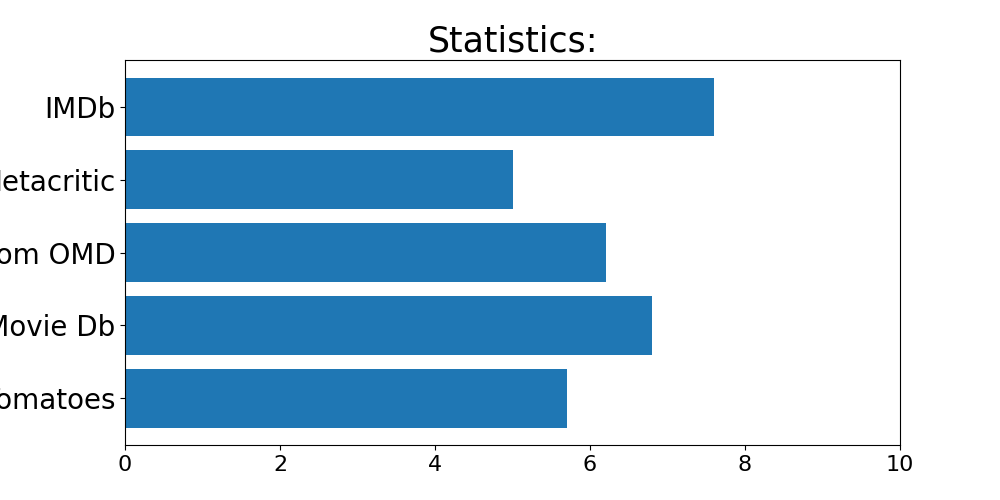
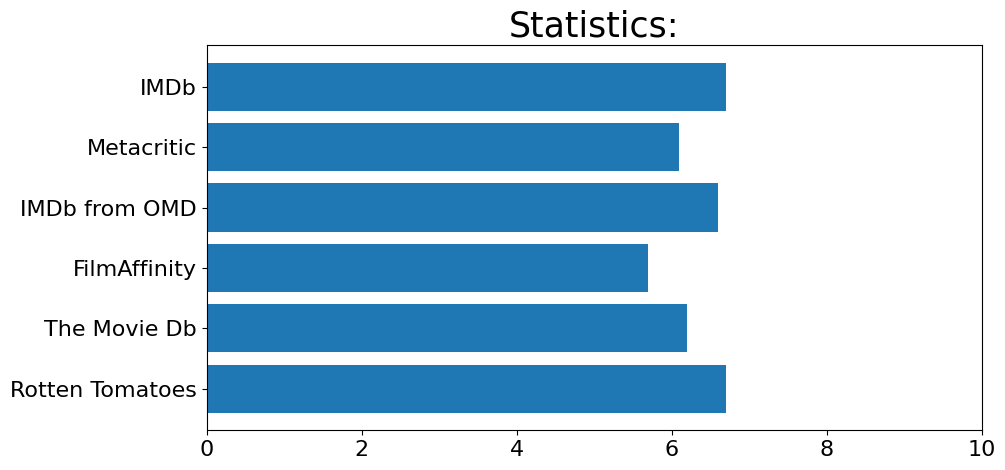
end version of rest

diff --git a/film_rating/postman/response_lotr.html b/film_rating/postman/response_lotr.html
@@ -1,0 +1,28 @@
+<!DOCTYPE html>
+<html lang="en">
+<head>
+    <meta charset="UTF-8">
+    <title>Rating</title>
+</head>
+<body>
+<nav>
+    <a href="/">BACK</a>
+</nav>
+<img src="https://m.media-amazon.com/images/M/MV5BNzA5ZDNlZWMtM2NhNS00NDJjLTk4NDItYTRmY2EwMWZlMTY3XkEyXkFqcGdeQXVyNzkwMjQ5NzM@._V1_SX300.jpg" alt="" style="float:right; margin:6px; width:250">
+<p>
+    Title: The Lord of the Rings: The Return of the King </br>
+    Average rating: 8.4 </br>
+    Weighted average rating: 8.9 </br>
+    Maximum rating: 9.4 </br>
+    Minimum rating: 6.2 </br></br>
+    Get ratings from 6 of 6 providers
+</p>
+<img src="/static/barplot.png" alt="" width="400">
+<p>
+    Triumph Tinged With Regret in Middle Earth After the galloping intelligence displayed in the first two parts of &amp;quot;The Lord of the Rings&amp;quot; series, your fear may be that Peter Jackson would become cautious and unimaginative with the last episode of his trilogy. But Mr. Jackson crushes any such fear. His &amp;quot;King&amp;quot; is a meticulous and prodigious vision made by a director who was not hamstrung by heavy use of computer special-effects imagery. The final installment  follows the hobbit Frodo (Elijah Wood), increasingly fevered as the ring exercises its power over him, on the last leg of his perilous journey to Mordor to destroy the sinister object.  The wizard Gandalf (Ian McKellen), in a voice sodden with mellow sadness, believes that Frodo is on a suicide mission: &amp;quot;There never was much hope. Just a false hope.&amp;quot; Mr. Jackson takes his time with the story, but he&#39;s not sloughing off here. Rather he is building toward a more than solid conclusion. The grandiloquence that sustained the second installment, &amp;quot;The Two Towers,&amp;quot; with its pounding and operatic martial fury — a movie that actually created a state of siege and left audiences hanging —  can be found here. By its end, &amp;quot;King&amp;quot; glides to the gentle bonhomie that opened the &amp;quot;Ring&amp;quot; movies, but its epilogue is tinged with regret: &amp;quot;You can&#39;t go back. Some wounds don&#39;t heal.&amp;quot; It&#39;s an epic about the price of triumph, a subversive victory itself in a large-scale pop-action film. — Elvis Mitchell
+    </br></br>
+    <a href="https://www.nytimes.com/2003/12/16/movies/film-review-triumph-tinged-with-regret-in-middle-earth.html">Full review</a>
+</p>
+
+</body>
+</html>

diff --git a/film_rating/postman/response_hulk.html b/film_rating/postman/response_hulk.html
@@ -1,0 +1,28 @@
+<!DOCTYPE html>
+<html lang="en">
+<head>
+    <meta charset="UTF-8">
+    <title>Rating</title>
+</head>
+<body>
+<nav>
+    <a href="/">BACK</a>
+</nav>
+<img src="https://m.media-amazon.com/images/M/MV5BMTUyNzk3MjA1OF5BMl5BanBnXkFtZTcwMTE1Njg2MQ@@._V1_SX300.jpg" alt="" style="float:right; margin:6px; width:250">
+<p>
+    Title: The Incredible Hulk </br>
+    Average rating: 6.3 </br>
+    Weighted average rating: 6.6 </br>
+    Maximum rating: 6.7 </br>
+    Minimum rating: 5.7 </br></br>
+    Get ratings from 6 of 6 providers
+</p>
+<img src="/static/barplot.png" alt="" width="400">
+<p>
+    Caution: Contents Turn Angry When Shaken The new movie about Dr. Bruce Banner is called “The Incredible Hulk.” But let’s not get carried away: “The Adequate Hulk” would have been a more suitable title.
+    </br></br>
+    <a href="https://www.nytimes.com/2008/06/13/movies/13hulk.html">Full review</a>
+</p>
+
+</body>
+</html>

diff --git a/film_rating/postman/response_avatar.html b/film_rating/postman/response_avatar.html
@@ -1,0 +1,28 @@
+<!DOCTYPE html>
+<html lang="en">
+<head>
+    <meta charset="UTF-8">
+    <title>Rating</title>
+</head>
+<body>
+<nav>
+    <a href="/">BACK</a>
+</nav>
+<img src="https://m.media-amazon.com/images/M/MV5BMTYwOTEwNjAzMl5BMl5BanBnXkFtZTcwODc5MTUwMw@@._V1_SX300.jpg" alt="" style="float:right; margin:6px; width:250">
+<p>
+    Title: Avatar </br>
+    Average rating: 8.0 </br>
+    Weighted average rating: 7.8 </br>
+    Maximum rating: 8.3 </br>
+    Minimum rating: 7.5 </br></br>
+    Get ratings from 4 of 6 providers
+</p>
+<img src="/static/barplot.png" alt="" width="400">
+<p>
+    A New Eden, Both Cosmic and Cinematic With “Avatar” James Cameron has turned one man’s dream of the movies into a trippy joy ride about the end of life as we know it.
+    </br></br>
+    <a href="https://www.nytimes.com/2009/12/18/movies/18avatar.html">Full review</a>
+</p>
+
+</body>
+</html>

diff --git a/film_rating/postman/response_shawshank.html b/film_rating/postman/response_shawshank.html
@@ -1,0 +1,28 @@
+<!DOCTYPE html>
+<html lang="en">
+<head>
+    <meta charset="UTF-8">
+    <title>Rating</title>
+</head>
+<body>
+<nav>
+    <a href="/">BACK</a>
+</nav>
+<img src="https://m.media-amazon.com/images/M/MV5BMDFkYTc0MGEtZmNhMC00ZDIzLWFmNTEtODM1ZmRlYWMwMWFmXkEyXkFqcGdeQXVyMTMxODk2OTU@._V1_SX300.jpg" alt="" style="float:right; margin:6px; width:250">
+<p>
+    Title: The Shawshank Redemption </br>
+    Average rating: 8.8 </br>
+    Weighted average rating: 9.3 </br>
+    Maximum rating: 9.3 </br>
+    Minimum rating: 8.1 </br></br>
+    Get ratings from 5 of 6 providers
+</p>
+<img src="/static/barplot.png" alt="" width="400">
+<p>
+    Prison Tale by Stephen King Told Gently, Believe It or Not 
+    </br></br>
+    <a href="https://www.nytimes.com/1994/09/23/movies/film-review-prison-tale-by-stephen-king-told-gently-believe-it-or-not.html">Full review</a>
+</p>
+
+</body>
+</html>

diff --git a/film_rating/logic.py b/film_rating/logic.py
@@ -1,13 +1,14 @@
-from rt import RTProvider
-from tmdb import TMDBProvider
-from nyt import NYTProvider
-from fa import FAProvider
-from imdb_omd import IMDBOMDProvider
-from mc import MCProvider
-from imdb import IMDBProvider
+from providers.rt import RTProvider
+from providers.tmdb import TMDBProvider
+from providers.nyt import NYTProvider
+from providers.fa import FAProvider
+from providers.imdb_omd import IMDBOMDProvider
+from providers.mc import MCProvider
+from providers.imdb import IMDBProvider
 
 from concurrent.futures import ThreadPoolExecutor
 import matplotlib.pyplot as plt
+from matplotlib.pyplot import Figure
 
 
 class Evaluator(object):
@@ -26,7 +27,7 @@ class Evaluator(object):
             for idx in range(len(self.providers)):
                 executor.submit(self.run_provider, idx)
 
-    def make_barplot(self): #todo szerokość wykresu
+    def make_barplot(self):
         labels = []
         values = []
         for i, b in enumerate(self.returns):
@@ -39,10 +40,10 @@ class Evaluator(object):
         plt.figure(figsize=(10, 5))
         plt.barh(labels, values)
         plt.xticks(fontsize=16)
-        plt.yticks(fontsize=20)
+        plt.yticks(fontsize=16)
         plt.xlim([0, 10])
         plt.title("Statistics:", fontsize=25)
-        plt.savefig("static/barplot.png")
+        plt.savefig("static/barplot.png", bbox_inches="tight")
 
     def evaluate(self, **kwargs):
         self.kwargs = kwargs
@@ -108,3 +109,12 @@ class Evaluator(object):
             "poster": poster
         }
         return result
+
+if __name__ == '__main__':
+    ev = Evaluator()
+    arg = {
+        'title': "hulk",
+        'year': 2008
+    }
+    a = ev.evaluate(**arg)
+    print(a)

diff --git a/film_rating/providers/imdb.py b/film_rating/providers/imdb.py
@@ -21,6 +21,7 @@ class IMDBProvider(object):
 
     def set_default(self):
         self.params.clear()
+        self.params["titleType"] = "movie"
 
     def get(self, title=None, year=None):
         self.set_default()

diff --git a/film_rating/providers/imdb_omd.py b/film_rating/providers/imdb_omd.py
@@ -1,4 +1,4 @@
-from omd import OMDProvider
+from providers.omd import OMDProvider
 
 
 class IMDBOMDProvider(OMDProvider):

diff --git a/film_rating/providers/mc.py b/film_rating/providers/mc.py
@@ -1,4 +1,4 @@
-from omd import OMDProvider
+from providers.omd import OMDProvider
 
 
 class MCProvider(OMDProvider):

diff --git a/film_rating/providers/rt.py b/film_rating/providers/rt.py
@@ -1,4 +1,4 @@
-from omd import OMDProvider
+from providers.omd import OMDProvider
 
 
 class RTProvider(OMDProvider):
